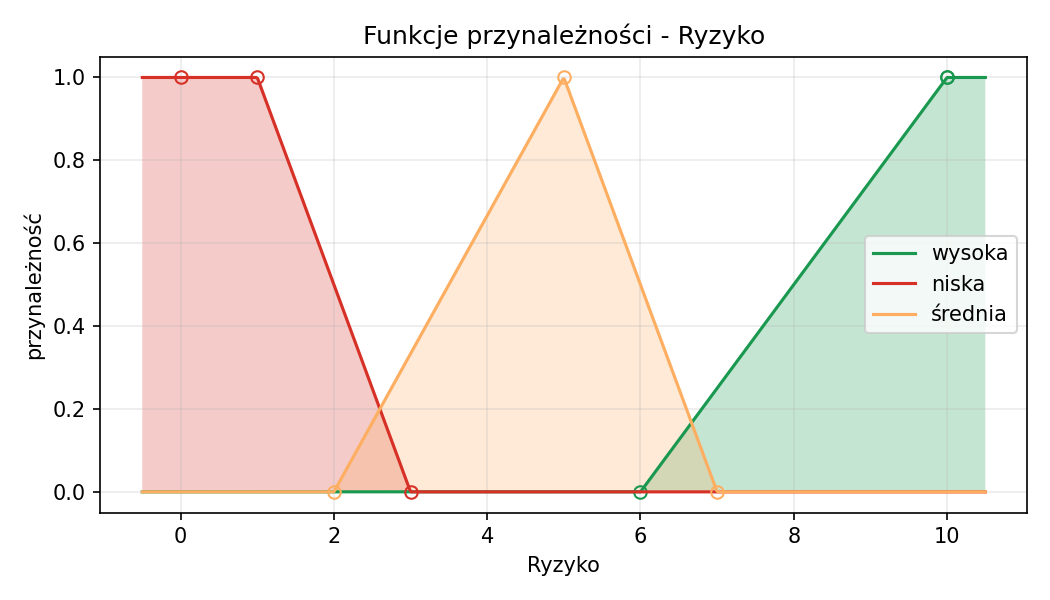
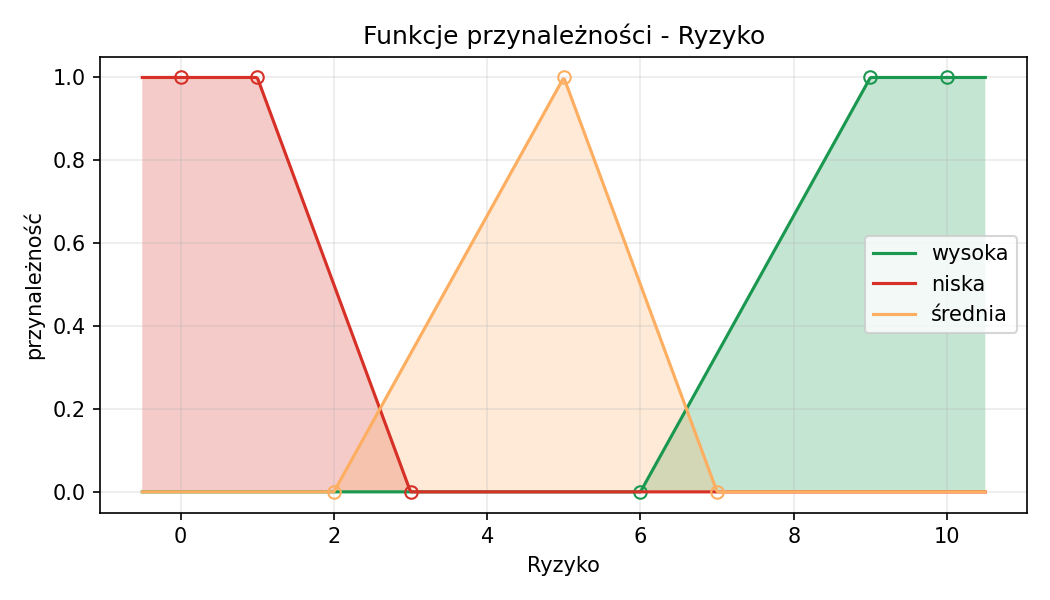
finish lab04

Changed region(s): [[0.6095, 0.12, 0.9143, 0.81]]

diff --git a/lab04/report.tex b/lab04/report.tex
@@ -86,7 +86,7 @@ zdefiniowanymi w pliku FCL.
 \end{itemize}
 
 Tak zdefiniowane zmienne pozwalają przełożyć jakościowe oceny inwestycji na model rozmyty,
-w którym reguły eksperckie mogą łączyć informację o potencjalnym zysku, ryzyku i płynności w jedną
+w którym reguły mogą łączyć informację o potencjalnym zysku, ryzyku i płynności w jedną
 syntetyczną ocenę atrakcyjności.
 
 Formalnie każda zmienna lingwistyczna została zdefiniowana jako piątka
@@ -156,9 +156,9 @@ Analizę przeprowadzono na 11 przypadkach odpowiadających wybranym, najbardziej
 kombinacjom wejść. Podstawowe statystyki atrakcyjności to:
 \begin{itemize}
   \item liczba przypadków: 11,
-  \item wartość minimalna: 0.00,
-  \item wartość maksymalna: 80.53,
-  \item wartość średnia: około 50.02.
+  \item wartość minimalna: 19.419,
+  \item wartość maksymalna: 80.530,
+  \item wartość średnia: około 48.26.
 \end{itemize}
 
 Rozkład wyników wykazuje skupienia w trzech typowych poziomach: wartości niskie (około 0--20),